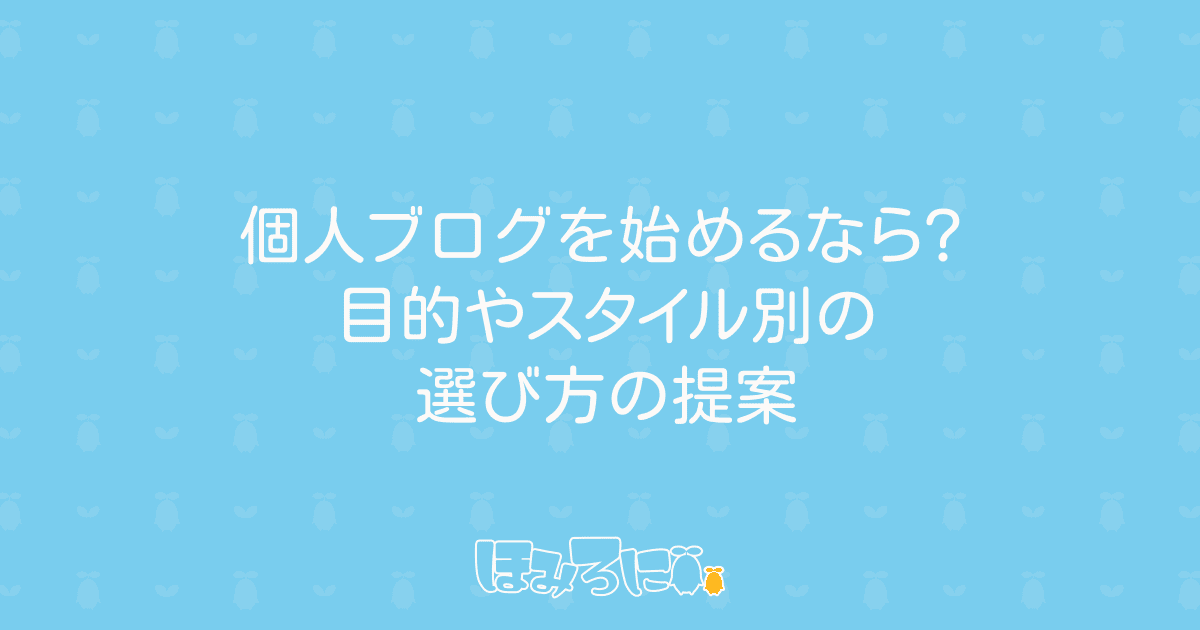
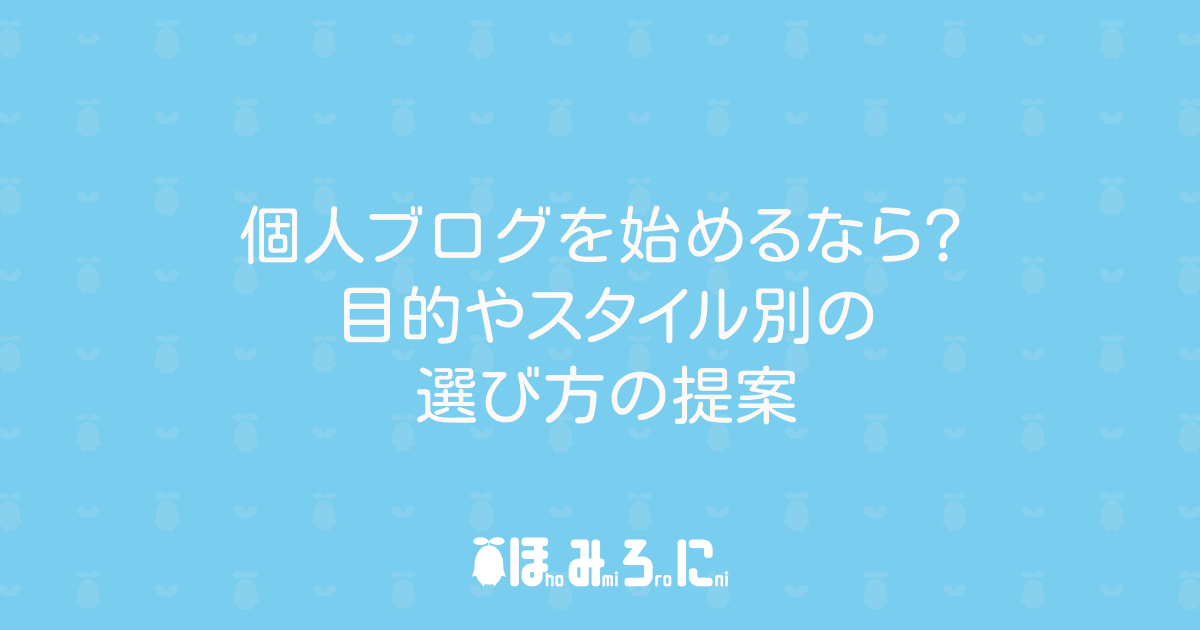
[update] ロゴ更新 (#630)
|light|dark|
|--|--|
|<img width="320" height="272" alt="image"
src="https://github.com/user-attachments/assets/45a43706-8d24-43b6-80fb-7c7ea1b0f22a"
/>|<img width="311" height="253" alt="image"
src="https://github.com/user-attachments/assets/91a0f7a6-9d87-46e8-bb54-c2e1a1400094"
/>|

Changed region(s): [[0.37, 0.8444, 0.6167, 0.9651]]

diff --git a/src/components/Navigation/Navigation.module.css b/src/components/Navigation/Navigation.module.css
@@ -1,5 +1,6 @@
 .container{
-    background-color: var(--color-black-area);
+    background-color: var(--color-main);
+    border-bottom: 1px solid var(--border-color-main);
 }
 
 .list{
@@ -22,7 +23,7 @@
     height: 4px;
     transform: scaleX(0);
     transition: transform 0.3s ease;
-    background-color: var(--text-color-white);
+    background-color: var(--color-sub);
 }
 
 .item:hover::after {
@@ -38,9 +39,9 @@
 
 .container,
 .link {
-    color: var(--text-color-white);
+    color: var(--text-color);
 }
 
 .link:hover {
-    color: var(--text-color-white-hover);
+    color: var(--text-color-hover);
 }

diff --git a/src/components/Header/Header.module.css b/src/components/Header/Header.module.css
@@ -1,5 +1,5 @@
 .container{
-    background-color: var(--color-sub);
+    background-color: var(--color-main);
 }
 
 .logo-container{

diff --git a/_contents/articles/20250525201956.md b/_contents/articles/20250525201956.md
@@ -7,7 +7,7 @@ publishDate: 2023-12-21T00:00:00.000+09:00
 lastModDate: 2024-08-27T00:00:00.000+09:00
 draft: false
 category: 開発系その他
-thumbnail: /images/header/categories/developOther/1.webp
+thumbnail: /images/header/articles/sdky27mklh0qz2c4nput34n1.webp
 ---
 
 マークダウンの書き方を忘れてしまうことが多く、いつも調べている……。

diff --git a/_contents/articles/20250525201957.md b/_contents/articles/20250525201957.md
@@ -8,7 +8,7 @@ publishDate: 2024-02-16T00:00:00.000+09:00
 lastModDate: 2024-02-16T00:00:00.000+09:00
 draft: false
 category: 開発系その他
-thumbnail: /images/header/categories/developOther/2.webp
+thumbnail: /images/header/articles/t4qf2vp9yl42yilfihryxee7.webp
 ---
 
 -   Doxygen でお手軽にドキュメントを生成したい！

diff --git a/_contents/articles/20250525201951.md b/_contents/articles/20250525201951.md
@@ -10,7 +10,7 @@ draft: false
 category: ゲーム開発
 tags:
   - UnrealEngine
-thumbnail: /images/header/categories/developGame/0.webp
+thumbnail: /images/header/articles/y9gwahvcxi4fkbq52ws3a5q6.webp
 ---
 
 ゲームをビルドした際の表示名などを変更する箇所を確認したかったので、  

diff --git a/_contents/articles/20250525201955.md b/_contents/articles/20250525201955.md
@@ -10,7 +10,7 @@ draft: false
 category: 開発系その他
 tags:
   - GitHubActions
-thumbnail: /images/header/categories/developOther/0.webp
+thumbnail: /images/header/articles/teuoslm5qrtzhh4lqkqlm34a.webp
 ---
 
 タイトル通りですが、本記事では以下の内容をメモしていきます。

diff --git a/_contents/articles/20250525161137.md b/_contents/articles/20250525161137.md
@@ -6,7 +6,7 @@ publishDate: 2023-08-23T00:00:00.000+09:00
 lastModDate: 2023-08-27T00:00:00.000+09:00
 draft: false
 category: 雑記
-thumbnail: /images/header/categories/memo/0.webp
+thumbnail: /images/header/articles/qnhckrrtrx8xv662s0ox840y.webp
 ---
 
 ## サイト開設！

diff --git a/_contents/articles/20250525184105.md b/_contents/articles/20250525184105.md
@@ -8,7 +8,7 @@ publishDate: 2025-03-26T00:00:00.000+09:00
 lastModDate: 2025-03-26T00:00:00.000+09:00
 draft: false
 category: 雑記
-thumbnail: /images/header/categories/memo/2.webp
+thumbnail: /images/header/articles/myunaxoc7w88tb3shu04jo0k.webp
 ---
 
 ## 真っ先に結論

diff --git a/_contents/articles/20250525182643.md b/_contents/articles/20250525182643.md
@@ -8,7 +8,7 @@ publishDate: 2024-08-24T00:00:00.000+09:00
 lastModDate: 2024-08-27T00:00:00.000+09:00
 draft: false
 category: 雑記
-thumbnail: /images/header/categories/memo/1.webp
+thumbnail: /images/header/articles/63wh6phn350glrerg3fq7u31.webp
 ---
 
 ## できること

diff --git a/_contents/articles/20250525202001.md b/_contents/articles/20250525202001.md
@@ -9,7 +9,7 @@ draft: false
 category: Web制作
 tags:
   - CSS
-thumbnail: /images/header/categories/makeWeb/2.webp
+thumbnail: /images/header/articles/fdjs9rs2bn7ugq9rf8ysa28h.webp
 ---
 
 css では主に見た目の部分を調整することができます。

diff --git a/_contents/articles/20250525202005.md b/_contents/articles/20250525202005.md
@@ -12,7 +12,7 @@ category: Web制作
 tags:
   - Vercel
   - FirebaseAuthentication
-thumbnail: /images/header/categories/makeWeb/6.webp
+thumbnail: /images/header/articles/gerhmam3hcmi9lbrgs3frm11.webp
 ---
 
 ## はじめに

diff --git a/_contents/articles/20250525201953.md b/_contents/articles/20250525201953.md
@@ -10,7 +10,7 @@ draft: false
 category: ゲーム開発
 tags:
   - Unity
-thumbnail: /images/header/categories/developGame/2.webp
+thumbnail: /images/header/articles/oxisarp8rwfqng1x7737y2pw.webp
 ---
 
 ## はじめに
